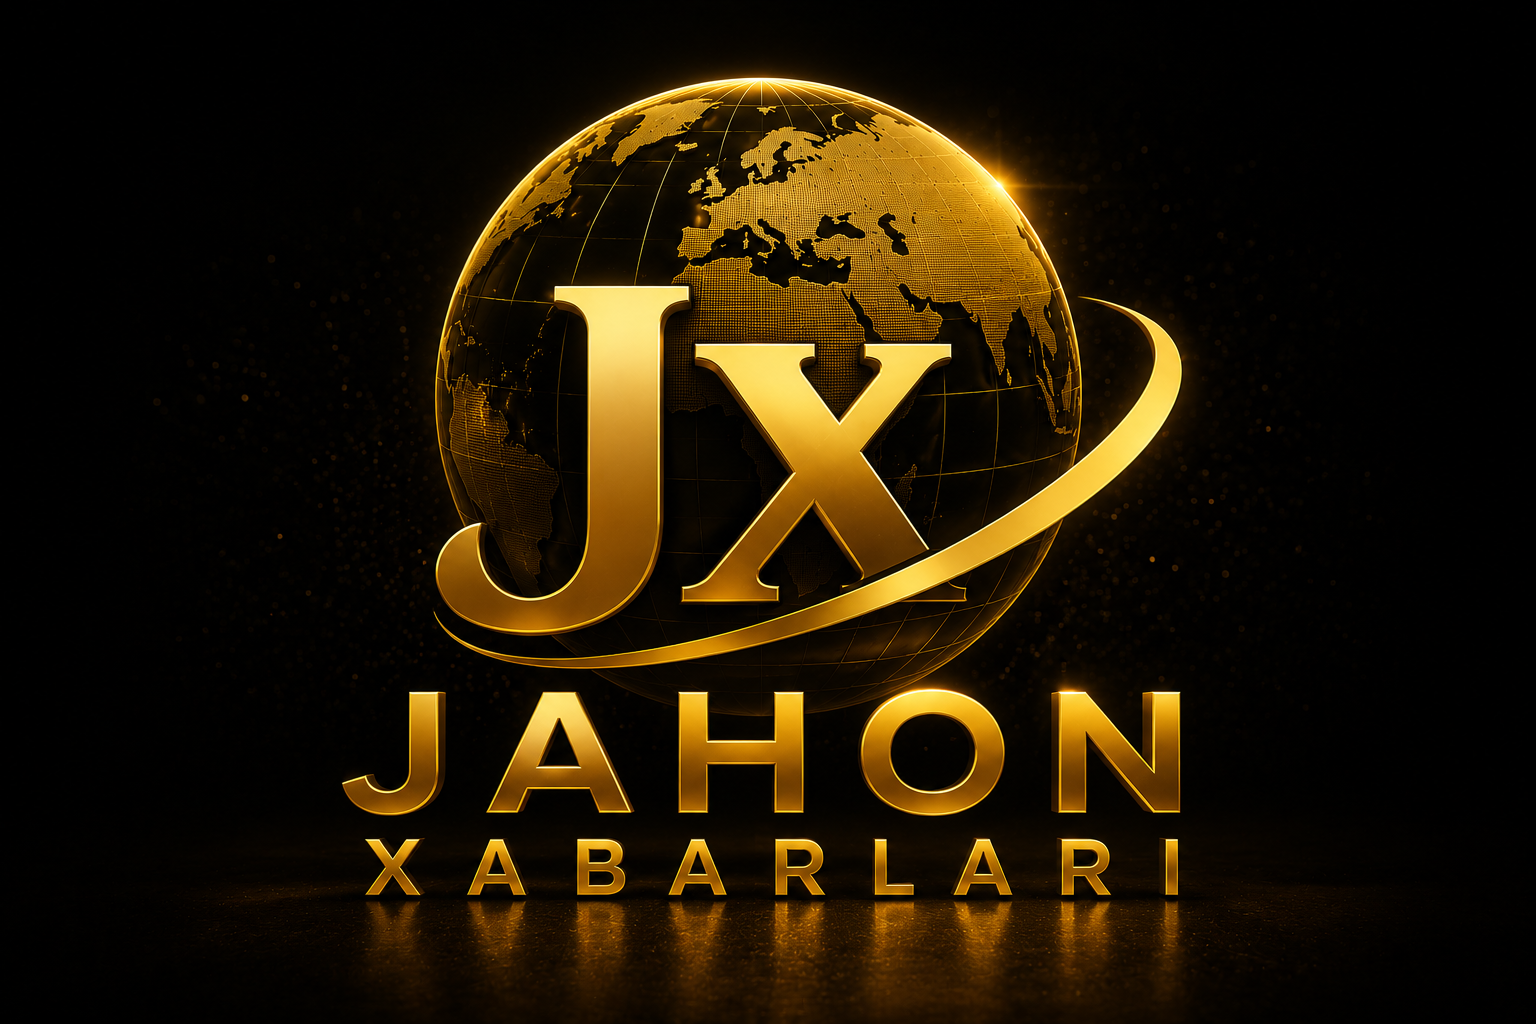
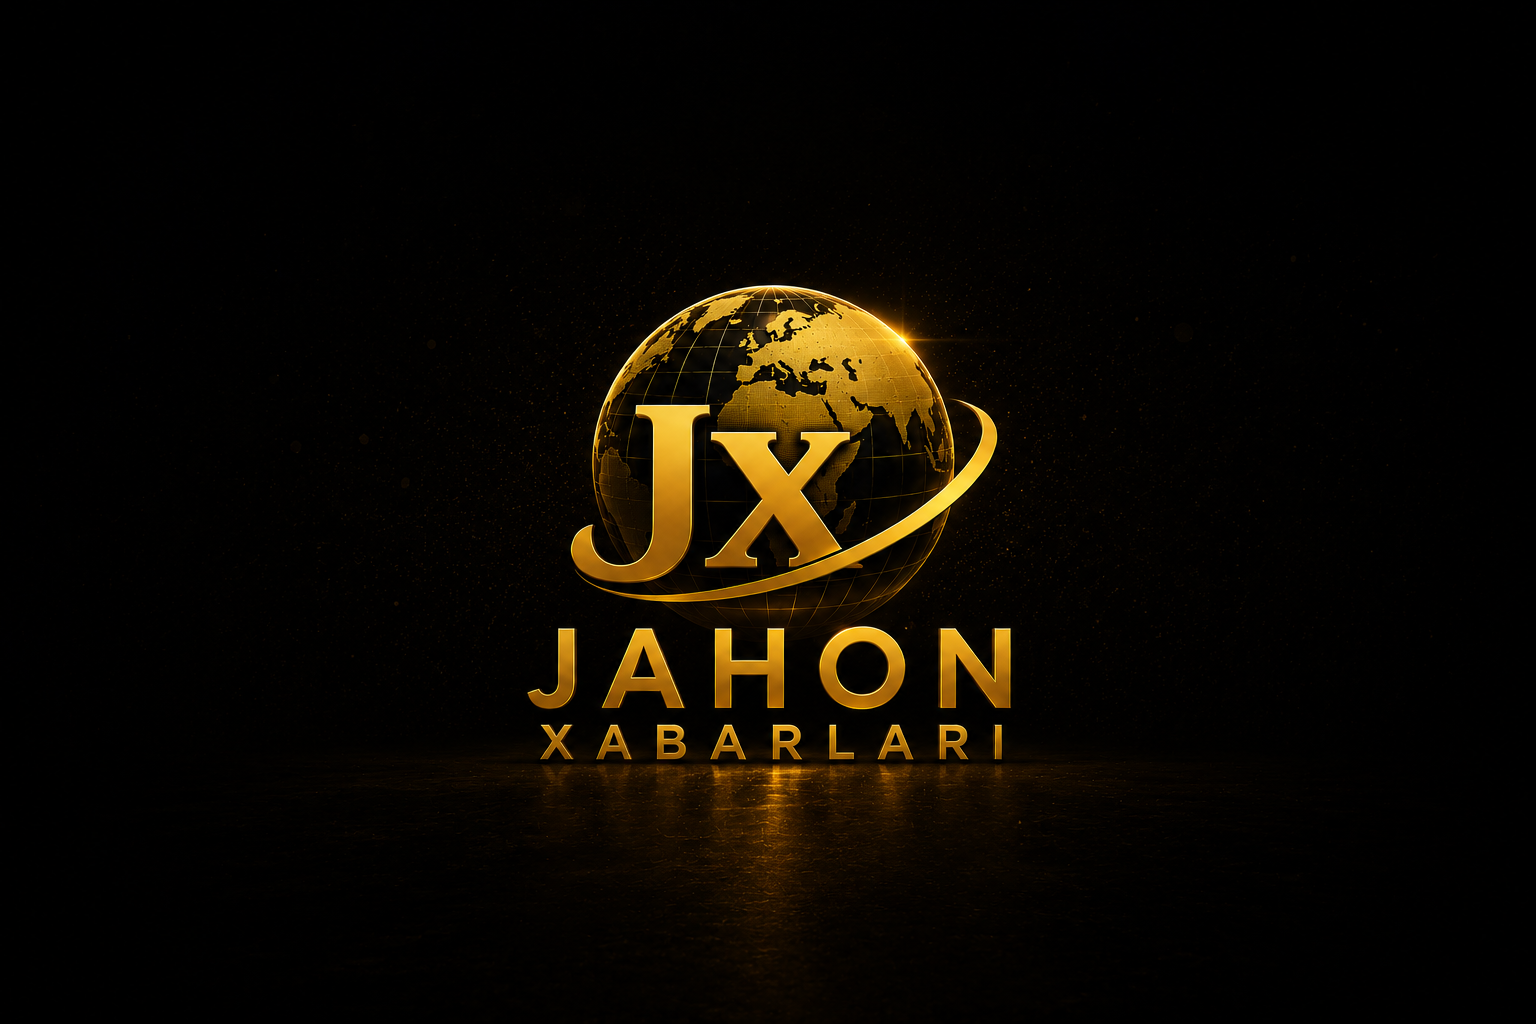
Improve mobile topbar and branded background

Changed region(s): [[0.2188, 0.0625, 0.8438, 1.0]]

diff --git a/frontend/app/globals.css b/frontend/app/globals.css
@@ -4,7 +4,7 @@
 
 :root {
   color-scheme: light;
-  --page-bg: #f6f8fc;
+  --page-bg: #e3edfb;
   --surface: #ffffff;
   --surface-soft: #f8fafc;
   --text: #07132f;
@@ -62,40 +62,29 @@ body {
   transition: background-color 220ms ease, color 220ms ease;
 }
 
-/*
- * Real fixed-position element, not `background-attachment: fixed` or a negative z-index trick.
- * `background-attachment: fixed` is unreliable on mobile browsers (which is what previously
- * caused the image to appear to repeat/drift while scrolling on phones), and a z-index:-1
- * pseudo-element loses to the browser's special body->canvas background propagation, which
- * paints behind absolutely everything including negative z-index layers. Being the very first
- * element in <body> with `position: fixed` (default z-index:auto) instead relies on normal
- * paint order: it's removed from layout flow, and every real (in-flow) page element after it
- * paints on top of it, so it stays put while only the content scrolls.
- * `contain` (not `cover`) guarantees the whole image -- including its logo/text -- stays visible
- * instead of being cropped or blown up to fill a narrow, tall mobile viewport.
- */
 .site-backdrop {
   position: fixed;
   inset: 0;
   pointer-events: none;
   background:
-    linear-gradient(rgba(246, 248, 252, 0.68), rgba(246, 248, 252, 0.76)),
+    linear-gradient(rgba(227, 237, 251, 0.38), rgba(227, 237, 251, 0.48)),
     radial-gradient(circle at top right, rgba(23, 103, 245, 0.08), transparent 32rem),
-    url("/brand/site-background.png") center / min(80%, 900px) no-repeat,
+    url("/brand/site-background.png") center / cover no-repeat,
     var(--page-bg);
 }
 
 :root[data-theme="dark"] .site-backdrop {
   background:
-    linear-gradient(rgba(7, 16, 31, 0.48), rgba(7, 16, 31, 0.72)),
+    linear-gradient(rgba(7, 16, 31, 0.26), rgba(7, 16, 31, 0.46)),
     radial-gradient(circle at top right, rgba(23, 103, 245, 0.12), transparent 32rem),
-    url("/brand/site-background.png") center / min(80%, 900px) no-repeat,
+    url("/brand/site-background.png") center / cover no-repeat,
     var(--page-bg);
 }
 
 @media (max-width: 768px) {
   .site-backdrop {
-    background-size: auto, auto, min(92%, 520px), auto;
+    background-position: center;
+    background-size: auto, auto, cover, auto;
   }
 }
 
@@ -193,6 +182,10 @@ body {
   background: rgba(255, 255, 255, 0.1);
 }
 
+.topbar-info {
+  line-height: 1.2;
+}
+
 .icon-button {
   display: grid;
   width: 44px;
@@ -258,6 +251,92 @@ body {
 }
 
 @media (max-width: 640px) {
+  .topbar {
+    background:
+      radial-gradient(circle at 14% 10%, rgba(39, 226, 230, 0.34), transparent 9rem),
+      linear-gradient(135deg, rgba(6, 18, 34, 0.74), rgba(9, 26, 48, 0.56));
+    backdrop-filter: blur(18px);
+  }
+
+  .topbar .container-page {
+    position: relative;
+    display: block;
+    width: 100%;
+    min-height: 58px;
+    padding-left: 12px;
+    padding-right: 10px;
+  }
+
+  .topbar-info {
+    position: absolute;
+    left: 12px;
+    top: 8px;
+    z-index: 2;
+    display: flex !important;
+    flex-direction: column;
+    align-items: flex-start;
+    gap: 4px;
+    min-width: 196px;
+    border: 1px solid rgba(166, 246, 255, 0.24);
+    border-radius: 20px;
+    padding: 7px 12px;
+    background:
+      linear-gradient(145deg, rgba(71, 226, 239, 0.18), rgba(255, 255, 255, 0.07)),
+      rgba(4, 17, 31, 0.42);
+    box-shadow:
+      inset 0 1px 0 rgba(255, 255, 255, 0.2),
+      0 16px 34px rgba(0, 10, 24, 0.28),
+      0 0 34px rgba(25, 211, 224, 0.12);
+    backdrop-filter: blur(20px) saturate(145%);
+    font-size: 11px;
+    color: #ffffff;
+  }
+
+  .topbar-weather {
+    color: #f8fdff;
+    font-weight: 800;
+    text-shadow: 0 1px 10px rgba(89, 234, 245, 0.18);
+  }
+
+  .topbar-weather,
+  .topbar-date {
+    max-width: calc(100vw - 138px);
+  }
+
+  .topbar-date {
+    color: rgba(214, 249, 255, 0.78);
+    font-size: 10px;
+    font-weight: 600;
+  }
+
+  .topbar-weather svg,
+  .topbar-date svg {
+    width: 13px;
+    height: 13px;
+  }
+
+  .topbar .language-trigger {
+    gap: 5px;
+    border: 1px solid rgba(166, 246, 255, 0.24);
+    padding: 8px 10px;
+    background:
+      linear-gradient(145deg, rgba(71, 226, 239, 0.18), rgba(255, 255, 255, 0.08)),
+      rgba(4, 17, 31, 0.44);
+    font-size: 12px;
+    box-shadow:
+      inset 0 1px 0 rgba(255, 255, 255, 0.2),
+      0 14px 28px rgba(0, 10, 24, 0.24),
+      0 0 24px rgba(25, 211, 224, 0.11);
+    backdrop-filter: blur(18px) saturate(145%);
+  }
+
+  .topbar .container-page > div:last-child {
+    position: absolute;
+    right: 10px;
+    top: 10px;
+    z-index: 3;
+  }
+
   .icon-button {
     width: 38px;
     height: 38px;

diff --git a/frontend/components/Header.tsx b/frontend/components/Header.tsx
@@ -1,10 +1,10 @@
 "use client";
 
-import { Camera, ChevronDown, Globe2, Menu, Moon, Play, Search, Send, Sun, X } from "lucide-react";
+import { CalendarDays, Camera, ChevronDown, CloudSun, Globe2, Menu, Moon, Play, Search, Send, Sun, X } from "lucide-react";
 import Image from "next/image";
 import Link from "next/link";
 import { usePathname } from "next/navigation";
-import { useMemo, useState } from "react";
+import { useEffect, useMemo, useState } from "react";
 import { SearchModal } from "./SearchModal";
 import { Language, useUi } from "../lib/ui-context";
 import { SITE_LOGO, SITE_NAME } from "../lib/site";
@@ -42,6 +42,7 @@ export function Header() {
   const [menuOpen, setMenuOpen] = useState(false);
   const [mobileOpen, setMobileOpen] = useState(false);
   const [languageOpen, setLanguageOpen] = useState(false);
+  const [currentDate, setCurrentDate] = useState("");
 
   const activeHref = useMemo(() => {
     if (pathname === "/") return "/";
@@ -55,20 +56,44 @@ export function Header() {
       activeHref === href ? "border-brand text-brand" : "border-transparent text-ink hover:border-brand/40 hover:text-brand"
     }`;
 
+  useEffect(() => {
+    const date = new Date();
+    const months = {
+      uz: ["yan", "fev", "mar", "apr", "may", "iyun", "iyul", "avg", "sen", "okt", "noy", "dek"],
+      ru: ["янв", "фев", "мар", "апр", "май", "июн", "июл", "авг", "сен", "окт", "ноя", "дек"],
+      en: ["Jan", "Feb", "Mar", "Apr", "May", "Jun", "Jul", "Aug", "Sep", "Oct", "Nov", "Dec"]
+    };
+    const weekdays = {
+      uz: ["Yakshanba", "Dushanba", "Seshanba", "Chorshanba", "Payshanba", "Juma", "Shanba"],
+      ru: ["Воскресенье", "Понедельник", "Вторник", "Среда", "Четверг", "Пятница", "Суббота"],
+      en: ["Sunday", "Monday", "Tuesday", "Wednesday", "Thursday", "Friday", "Saturday"]
+    };
+    setCurrentDate(`${weekdays[language][date.getDay()]}, ${date.getDate()} ${months[language][date.getMonth()]} ${date.getFullYear()}`);
+  }, [language]);
+
   const selectedLanguage = languages.find((item) => item.code === language) ?? languages[0];
 
   return (
     <>
       <div className="topbar bg-ink text-white">
-        <div className="container-page flex h-10 items-center justify-between text-sm">
-          <div className="hidden items-center gap-8 sm:flex">
-            <span>{t.top.city}&nbsp;&nbsp; 22C</span>
-            <span>12 May, 2025&nbsp; {t.top.day}</span>
+        <div className="container-page flex min-h-10 items-center justify-between gap-2 py-1 text-xs sm:h-10 sm:py-0 sm:text-sm">
+          <div className="topbar-info flex min-w-0 flex-1 items-center gap-2 sm:gap-8">
+            <span className="topbar-weather flex shrink-0 items-center gap-1.5 whitespace-nowrap">
+              <CloudSun className="h-4 w-4 text-amber-200" />
+              <span>{t.top.city}</span>
+              <span>22C</span>
+            </span>
+            <span className="topbar-date flex min-w-0 items-center gap-1.5 truncate">
+              <CalendarDays className="h-4 w-4 shrink-0 text-blue-200" />
+              <span className="truncate capitalize">{currentDate}</span>
+            </span>
           </div>
-          <div className="ml-auto flex items-center gap-5 lg:gap-7">
-            <Link className="transition hover:text-blue-200" href="/about">{t.top.about}</Link>
-            <Link className="transition hover:text-blue-200" href="/ads">{t.top.ads}</Link>
-            <Link className="transition hover:text-blue-200" href="/contact">{t.top.contact}</Link>
+          <div className="flex shrink-0 items-center gap-3 sm:gap-5 lg:gap-7">
+            <div className="hidden items-center gap-5 sm:flex lg:gap-7">
+              <Link className="transition hover:text-blue-200" href="/about">{t.top.about}</Link>
+              <Link className="transition hover:text-blue-200" href="/ads">{t.top.ads}</Link>
+              <Link className="transition hover:text-blue-200" href="/contact">{t.top.contact}</Link>
+            </div>
             <div className="hidden items-center gap-3 lg:flex">
               <a aria-label="Telegram" className="social-icon bg-sky-500" href="https://t.me/" target="_blank"><Send size={14} fill="white" /></a>
               <a aria-label="Facebook" className="social-icon bg-blue-600 text-xs font-black" href="https://facebook.com/" target="_blank">f</a>